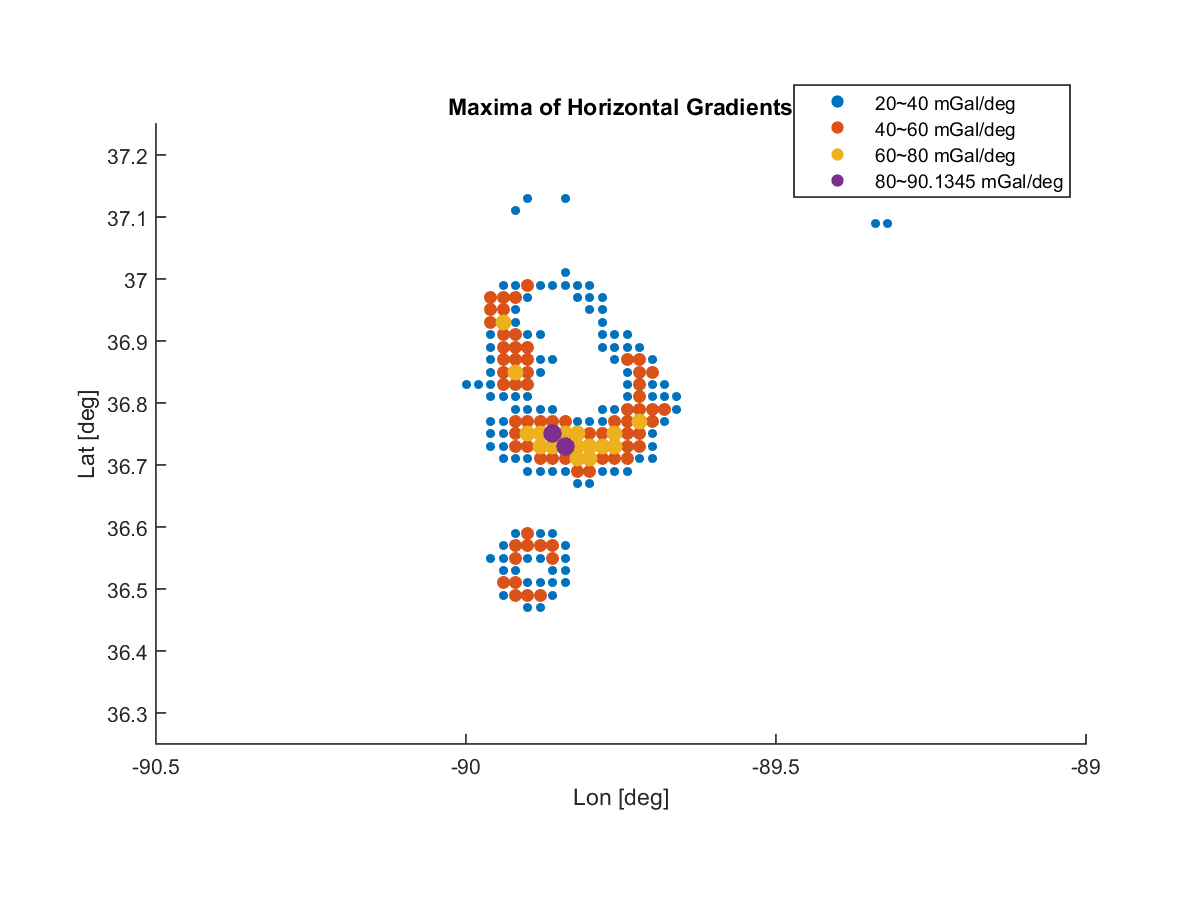
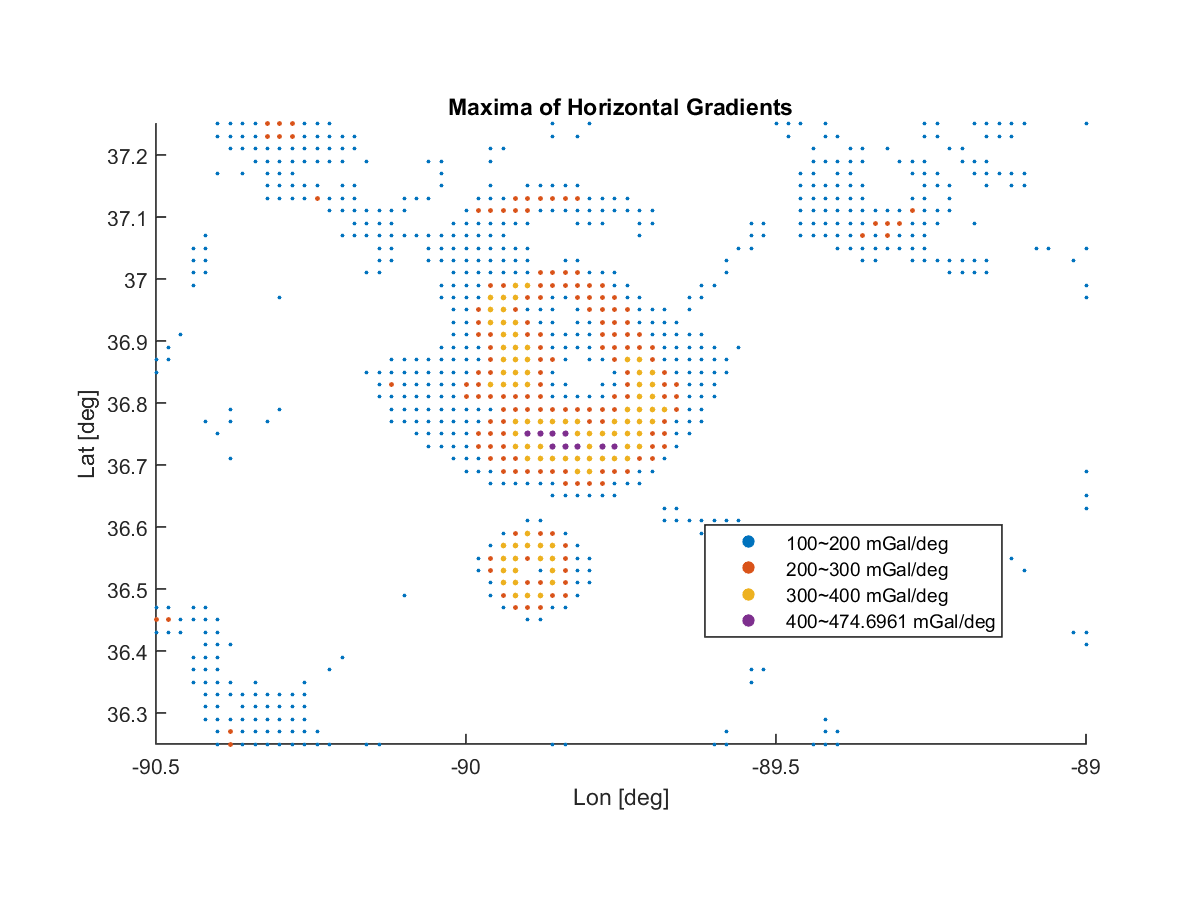
bug report
% restore default
set(0, 'DefaultLineLineWidth', 0.5);

diff --git a/Combined_Packages_YuGeng/redist_cen_maggrav_yugeng/subroutines/dot_plot.m b/Combined_Packages_YuGeng/redist_cen_maggrav_yugeng/subroutines/dot_plot.m
@@ -1,4 +1,4 @@
-function dot_plot(subdir, Cg, glon, glat, interv)
+function dot_plot(subdir, dl, Cg, glon, glat, interv)
 %DOT_PLOT  Maxima of horizontal gradients.
 % Show places where horizontal gradients of gravity data are locally high.
 % 
@@ -8,7 +8,8 @@ function dot_plot(subdir, Cg, glon, glat, interv)
 % interv - interval size you want to level the data with
 %        - for gravity gradient in unit [mGal/deg], use 100
 %        - in [mGal/km], 1 is suggested
-%        - it is also related to your spacing
+%        - however, it should not be significantly affected by your spacing
+%        - because gradients are normalized
 % 
 % GENG, Yu
 % 2017-12-10
@@ -21,7 +22,9 @@ Cg = Cg';
 
 % compute maximum gradient
 [Gx, Gy] = gradient(Cg);
-mag_H = Gx .* Gx + Gy .* Gy;  % magnitude of horizontal gradient
+Gx = Gx ./ dl;
+Gy = Gy ./ dl;
+mag_H = sqrt(Gx .* Gx + Gy .* Gy);  % magnitude of horizontal gradient
 max_mag = max(max(mag_H));
 
 % divide them into levels
@@ -43,8 +46,8 @@ for i = 2:nof_levels  % skip the smallest interval so that you get a white bg
     lowlim = levels(i);
     upplim = levels(i+1);
     [dlon, dlat, sc, lgd] = ...
-        sel_data(upplim, lowlim, mag_H, glon, glat);  % sc is for size only
-    scatter(dlon, dlat, sc, 'filled', ...
+        sel_data(upplim, lowlim, mag_H, glon, glat, interv);  % sc is for size only
+    scatter(dlon, dlat, sc*2.0, 'filled', ...
         'DisplayName', lgd);  % color is automatic
 end
 hold off;
@@ -52,7 +55,7 @@ hold off;
 axis('equal');  % do not set 'tight' here
 xlim([min(glon), max(glon)]);
 ylim([min(glat), max(glat)]);
-leg = legend('show', 'Location', 'Best');  % cannot add title to legend
+legend('show', 'Location', 'Best');  % cannot add title to legend
 % title(leg, '\|\nabla{g}_z(x,y)\|_2 [mGal/deg]');
 
 % examine working directory

diff --git a/Combined_Packages_YuGeng/redist_cen_maggrav_yugeng/subroutines/cross_profiles.m b/Combined_Packages_YuGeng/redist_cen_maggrav_yugeng/subroutines/cross_profiles.m
@@ -187,7 +187,11 @@ suptitle('EW Cross-Sections')
 set(0, 'DefaultLineLineWidth', 1.5)
 
 subplot(3,1,1);
+hold on;
 plot(AA_pro_x, AA_pro_y);
+% scatter(AA_pro_x, AA_pro_y, '*');
+hold off;
+
 xlim([min_lon, max_lon]);
 ylim([-ewlim, ewlim]);  % unified window scale
 xlabel('Lon [deg]');
@@ -195,7 +199,11 @@ ylabel(unit);
 title(['A', space_buffer, 'A''']);
 
 subplot(3,1,2);
+hold on;
 plot(BB_pro_x, BB_pro_y);
+% scatter(BB_pro_x, BB_pro_y, '*');
+hold off;
+
 xlim([min_lon, max_lon]);
 ylim([-ewlim, ewlim]);  % unified window scale
 xlabel('Lon [deg]');
@@ -203,7 +211,11 @@ ylabel(unit);
 title(['B', space_buffer, 'B''']);
 
 subplot(3,1,3);
+hold on;
 plot(CC_pro_x, CC_pro_y);
+% scatter(CC_pro_x, CC_pro_y, '*');
+hold off;
+
 xlim([min_lon, max_lon]);
 ylim([-ewlim, ewlim]);  % unified window scale
 xlabel('Lon [deg]');
@@ -218,7 +230,11 @@ suptitle('NS Cross-Sections')
 set(0, 'DefaultLineLineWidth', 1.5)
 
 subplot(3,1,1);
+hold on;
 plot(DD_pro_x, DD_pro_y);
+% scatter(DD_pro_x, DD_pro_y, '*');
+hold off;
+
 xlim([min_lat, max_lat]);
 ylim([-nslim, nslim]);  % unified window scale
 xlabel('Lat [deg]');
@@ -226,7 +242,11 @@ ylabel(unit);
 title(['D', space_buffer, 'D''']);
 
 subplot(3,1,2);
+hold on;
 plot(EE_pro_x, EE_pro_y);
+% scatter(EE_pro_x, EE_pro_y, '*');
+hold off;
+
 xlim([min_lat, max_lat]);
 ylim([-nslim, nslim]);  % unified window scale
 xlabel('Lat [deg]');
@@ -234,7 +254,11 @@ ylabel(unit);
 title(['E', space_buffer, 'E''']);
 
 subplot(3,1,3);
+hold on;
 plot(FF_pro_x, FF_pro_y);
+% scatter(FF_pro_x, FF_pro_y, '*');
+hold off;
+
 xlim([min_lat, max_lat]);
 ylim([-nslim, nslim]);  % unified window scale
 xlabel('Lat [deg]');

diff --git a/Combined_Packages_YuGeng/redist_cen_maggrav_yugeng/main.m b/Combined_Packages_YuGeng/redist_cen_maggrav_yugeng/main.m
@@ -58,8 +58,13 @@ Cg = Cg.';  % transpose into math convention
 %% Screen output and figures.
 
 % show maxima of horizontal gradients
-interv = 20;  % <= there is no empirical formula for this
-dot_plot('raw_data', Cg, glon, glat, interv);
+interv = 100;
+dot_plot('raw_data', dl, Cg, glon, glat, interv);
+
+% Selection of Levelling Interval:
+% there is no empirical formula for interval
+% but it tells the magnitude of your data
+% which can be used to normalize symbol size
 
 % show study region
 disp('Study region:');
@@ -110,7 +115,7 @@ disp('Done. Note that yellow is forcely centred at zero.');
 
 %% Additional feature.
 
-% animation parameters
+% animation settings
 d_phi = 15;  % <= specify a stepsize, please use an integer divisor of 360
 phi = 0 : d_phi : 359;
 nof_frames = numel(phi);
@@ -136,24 +141,9 @@ for i = 1 : nof_frames
 end
 close(fig_mov);
 
-% examine output directory
+% save the maximum magnitude vs. azimuth
 gif_path = './output/direct_deriv/';
-if ~exist(gif_path, 'dir')
-    mkdir(gif_path);
-end
-
-% plot maximum magnitude vs. azimuth
-fig_az = figure;
-hold on;
-plot(phi, u_max);
-hold off;
-daspect([max(glon)-min(glon), max(glat)-min(glat), 1]);
-title('Maximum Amplitude vs. Azimuth');
-xlabel('Azimuth [deg]');
-ylabel('Directional Derivative [mGal/deg]');
-xlim([0, 360]);
-saveas(fig_az, ['./output/direct_deriv/amp_', ...
-    num2str(d_phi,'%02d'), '_deg.png']);
+save_mag(gif_path, phi, u_max, glon, glat, d_phi);
 
 % play the movie
 figure;  % show rendered movie in a separate window

diff --git a/Combined_Packages_YuGeng/redist_cen_maggrav_yugeng/subroutines/sel_data.m b/Combined_Packages_YuGeng/redist_cen_maggrav_yugeng/subroutines/sel_data.m
@@ -1,5 +1,5 @@
 function [dlon, dlat, sc, lgd] = ...
-    sel_data(upplim, lowlim, mag_H, glon, glat)
+    sel_data(upplim, lowlim, mag_H, glon, glat, interv)
 %SEL_DATA  Subroutine of dot_plot().
 % Create two vectors containing the coordinates for the data within the
 % range. The interval for fetching data is right-closed (largest value
@@ -8,6 +8,8 @@ function [dlon, dlat, sc, lgd] = ...
 % mag_H - computed magnitudes of horizontal gradients in dot_plot
 %       - given in the matlab index convention
 % glon, glat - axes matching the gravity data
+% interv - interval used to level the data
+%        - used for normalizing symbol size
 % 
 % GENG, Yu
 % 2017-12-10
@@ -48,7 +50,7 @@ if counter ~= nof_ones
 end
 
 % create size and legend
-sc = lowlim;
+sc = upplim / interv;
 lgd = [num2str(lowlim), '~', num2str(upplim), ' mGal/deg'];
 
 end

diff --git a/Combined_Packages_YuGeng/redist_cen_maggrav_yugeng/subroutines/save_mag.m b/Combined_Packages_YuGeng/redist_cen_maggrav_yugeng/subroutines/save_mag.m
@@ -1,0 +1,28 @@
+function save_mag(gif_path, phi, u_max, glon, glat, d_phi)
+%PLOT_MAG  Plot the maximum magnitudes of directional derivatives as a
+% function of azimuths.
+
+% examine output directory
+if ~exist(gif_path, 'dir')
+    mkdir(gif_path);
+end
+
+% create the plot
+fig_az = figure;
+hold on;
+plot(phi, u_max);
+% do not plot scatter here, it really doesn't look good
+hold off;
+
+daspect([max(glon)-min(glon), max(glat)-min(glat), 1]);
+title('Maximum Amplitude vs. Azimuth');
+xlabel('Azimuth [deg]');
+ylabel('Directional Derivative [mGal/deg]');
+xlim([0, 360]);
+
+% save the figure
+fullpath = [gif_path, 'amp_', num2str(d_phi,'%02d'), '_deg.png'];
+saveas(fig_az, fullpath);
+disp(['Plot saved as: ', fullpath]);
+
+end

diff --git a/Combined_Packages_YuGeng/redist_cen_maggrav_yugeng/subroutines/direct_deriv.m b/Combined_Packages_YuGeng/redist_cen_maggrav_yugeng/subroutines/direct_deriv.m
@@ -4,7 +4,6 @@ function u_max = direct_deriv(clim, fig, dl, Cg, glon, glat, az, subfdr)
 % 
 % clim - a specified fixed value range for the colorbar
 % fig - the figure handle, used for saving plot
-%     - you could have trouble with aspect ratio if you do not pass it
 % dl - spacing along both x and y
 % Cg - 2-D gridded data, could be gravity or anything
 % glon, glat - gridded horizontal and vertical axes

diff --git a/Combined_Packages_YuGeng/redist_cen_maggrav_yugeng/README.md b/Combined_Packages_YuGeng/redist_cen_maggrav_yugeng/README.md
@@ -106,7 +106,7 @@ All tests passed on OS X 10.6.8 and 10.9.5 with GMT 4 installed.
 
 **Example Output**
   - Places where magnitudes of horizontal gradients are locally higher than
-      their surrounding regions <br>
+      their surrounding regions. <br>
     ![the_dot_plot](./output/raw_data/dot_plot.png)
   - Animated first derivatives toward each direction (looping around a full
       circle), created with a stepsize of 6 deg. <br>
